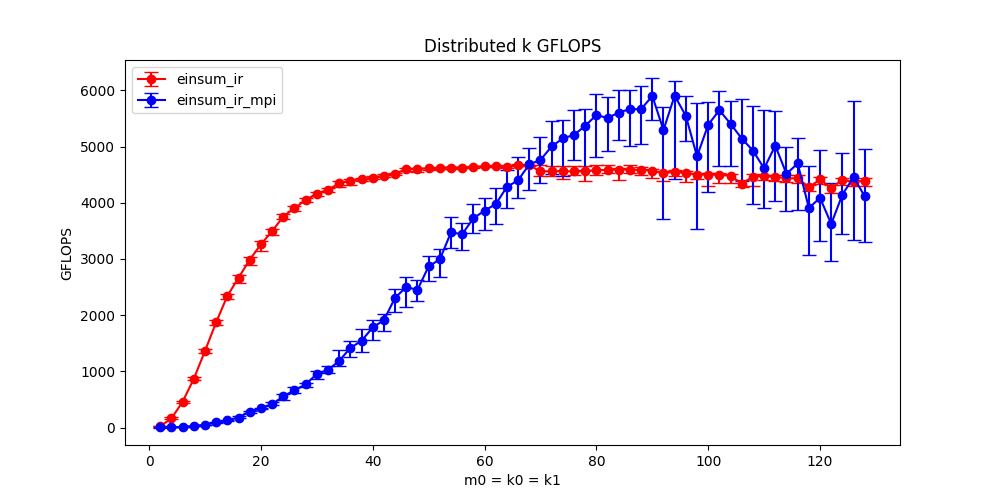
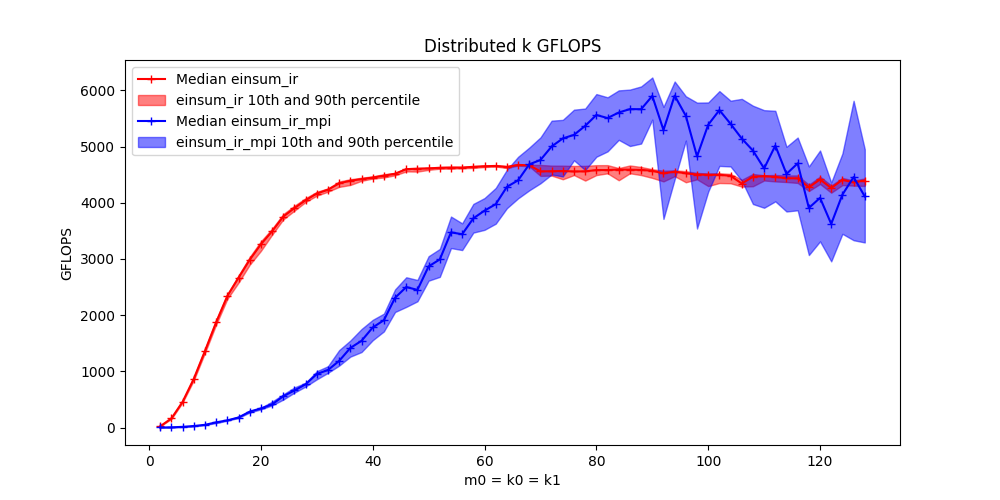
confidence region

diff --git a/Bachelor Arbeit/data/visualize.py b/Bachelor Arbeit/data/visualize.py
@@ -66,8 +66,10 @@ with open(filename, "r") as f:
         lines = lines[100:]
 
 plt.figure(figsize=(10, 5))
-plt.errorbar(size_1_arr, gflops_arr, yerr=[np.array(gflops_arr) - np.array(gflops_10_arr), np.array(gflops_90_arr) - np.array(gflops_arr)], fmt='r-o', capsize=5, label="einsum_ir")
-plt.errorbar(size_1_arr, gflops_mpi_arr, yerr=[np.array(gflops_mpi_arr) - np.array(gflops_mpi_10_arr), np.array(gflops_mpi_90_arr) - np.array(gflops_mpi_arr)], fmt='b-o', capsize=5, label="einsum_ir_mpi")
+plt.plot(size_1_arr, gflops_arr, 'r-+', label="Median einsum_ir")
+plt.fill_between(size_1_arr, gflops_10_arr, gflops_90_arr, color='r', alpha=0.5, label="einsum_ir 10th and 90th percentile")
+plt.plot(size_1_arr, gflops_mpi_arr, 'b-+', label="Median einsum_ir_mpi")
+plt.fill_between(size_1_arr, gflops_mpi_10_arr, gflops_mpi_90_arr, color='b', alpha=0.5, label="einsum_ir_mpi 10th and 90th percentile")
 plt.xlabel("m0 = k0 = k1")
 plt.ylabel("GFLOPS")
 plt.legend()
@@ -75,9 +77,9 @@ plt.title(titleGflops)
 plt.savefig("gflops.png")
 
 plt.figure(figsize=(10, 5))
-# plt.plot(size_1_arr, speedup_arr, label="Median Speedup")
-plt.errorbar(size_1_arr, speedup_arr, yerr=[np.array(speedup_arr) - np.array(speedup_10_arr), np.array(speedup_90_arr) - np.array(speedup_arr)], fmt='r-o', capsize=5, label="Speedup einsum_ir_mpi over einsum_ir")
-plt.axhline(y=1, color='black', linestyle='--', label="einsum_ir")
+plt.plot(size_1_arr, speedup_arr, "b-+" ,label="Median Speedup")
+plt.fill_between(size_1_arr, speedup_10_arr, speedup_90_arr, color='b', alpha=0.5, label="Speedup 10th and 90th percentile")
+plt.axhline(y=1, color='red', linestyle='--', label="einsum_ir")
 plt.axhline(y=2, color='black', linestyle='--', label="maximum Speedup")
 plt.xlabel("m0 = k0 = k1")
 plt.ylabel("Speedup")
